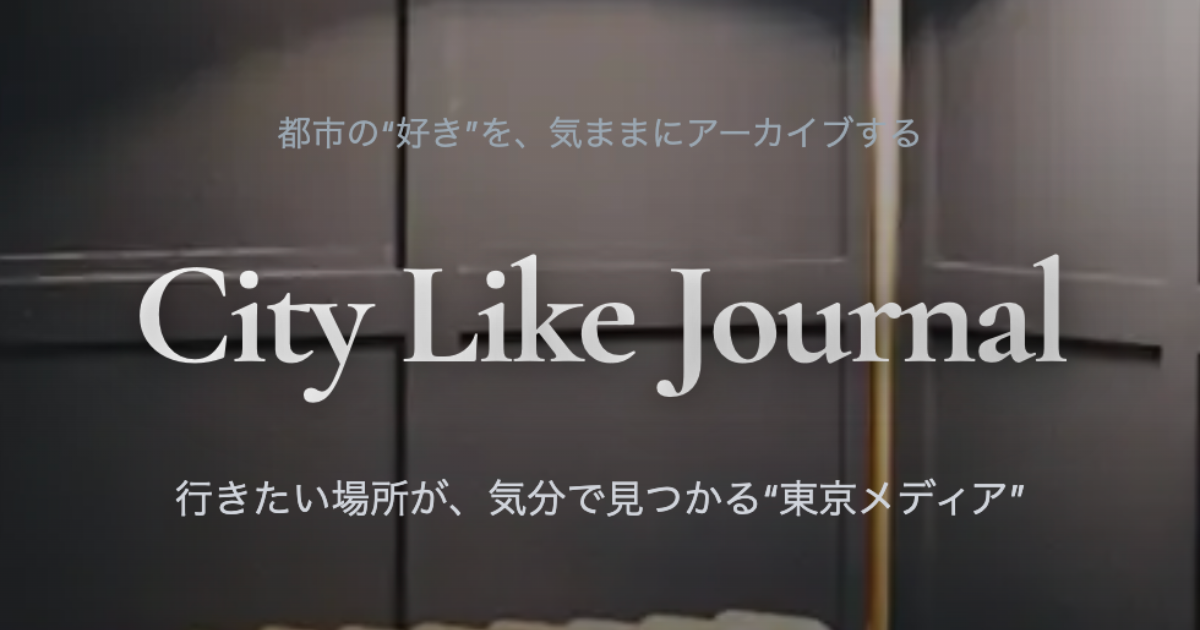
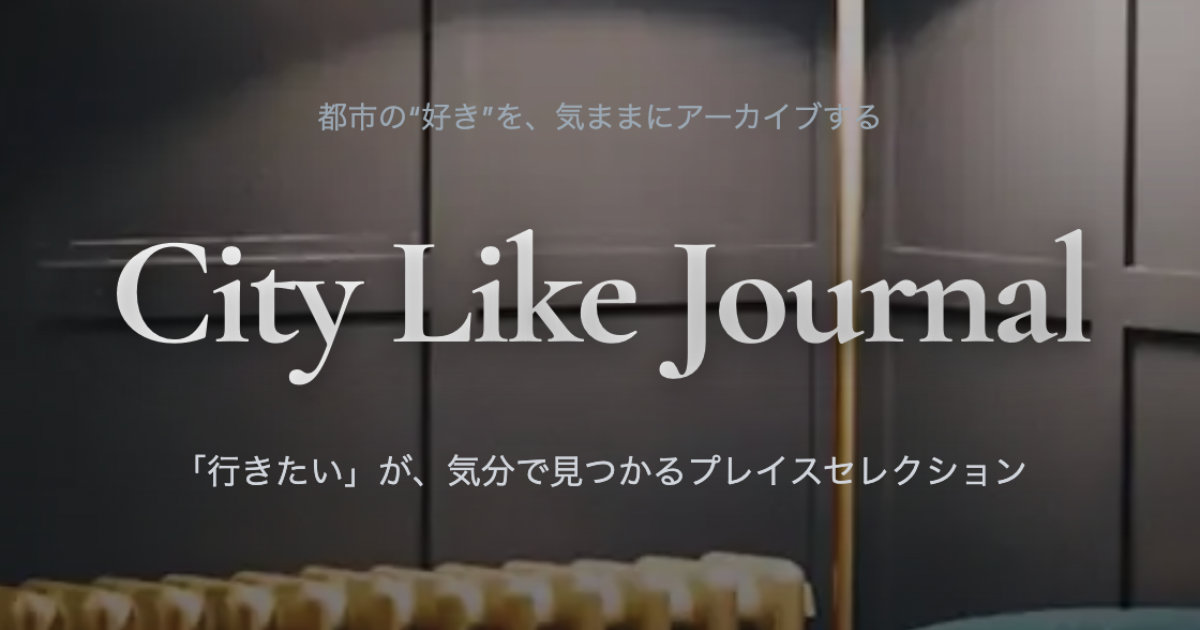
ヒーローセクションのコピー変更&OGP画像変更

Changed region(s): [[0.0, 0.0, 1.0, 1.0], [0.9867, 0.2714, 1.0, 0.4524]]

diff --git a/components/HeroSection.tsx b/components/HeroSection.tsx
@@ -98,7 +98,7 @@ export function HeroSection() {
           City Like Journal
         </h1>
         <p className="mt-4 sm:mt-6 text-sm sm:text-base text-gray-300 max-w-xl mx-auto">
-          行きたい場所が、気分で見つかる&ldquo;東京メディア&rdquo;
+          「行きたい」が、気分で見つかるプレイスセレクション
         </p>
       </div>
 
